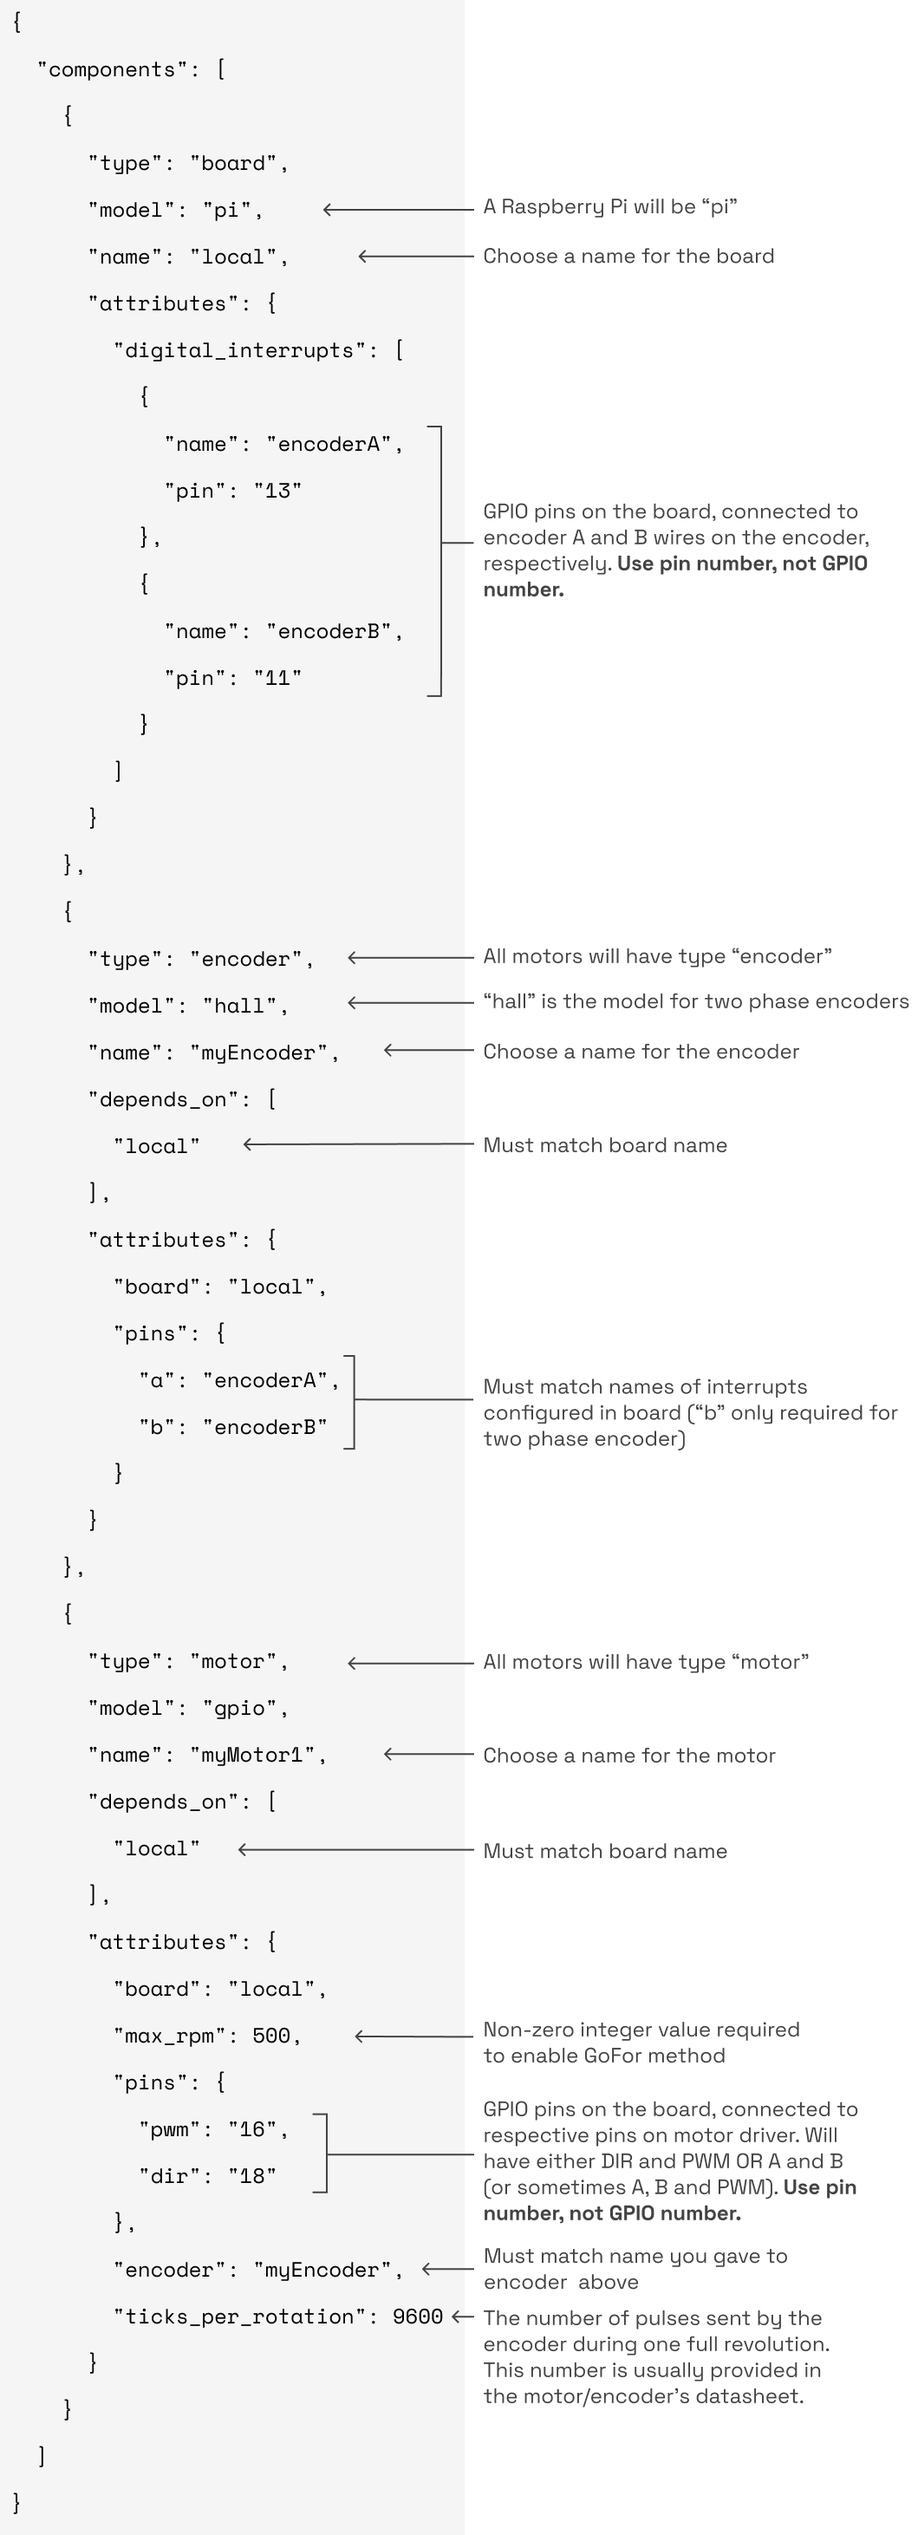
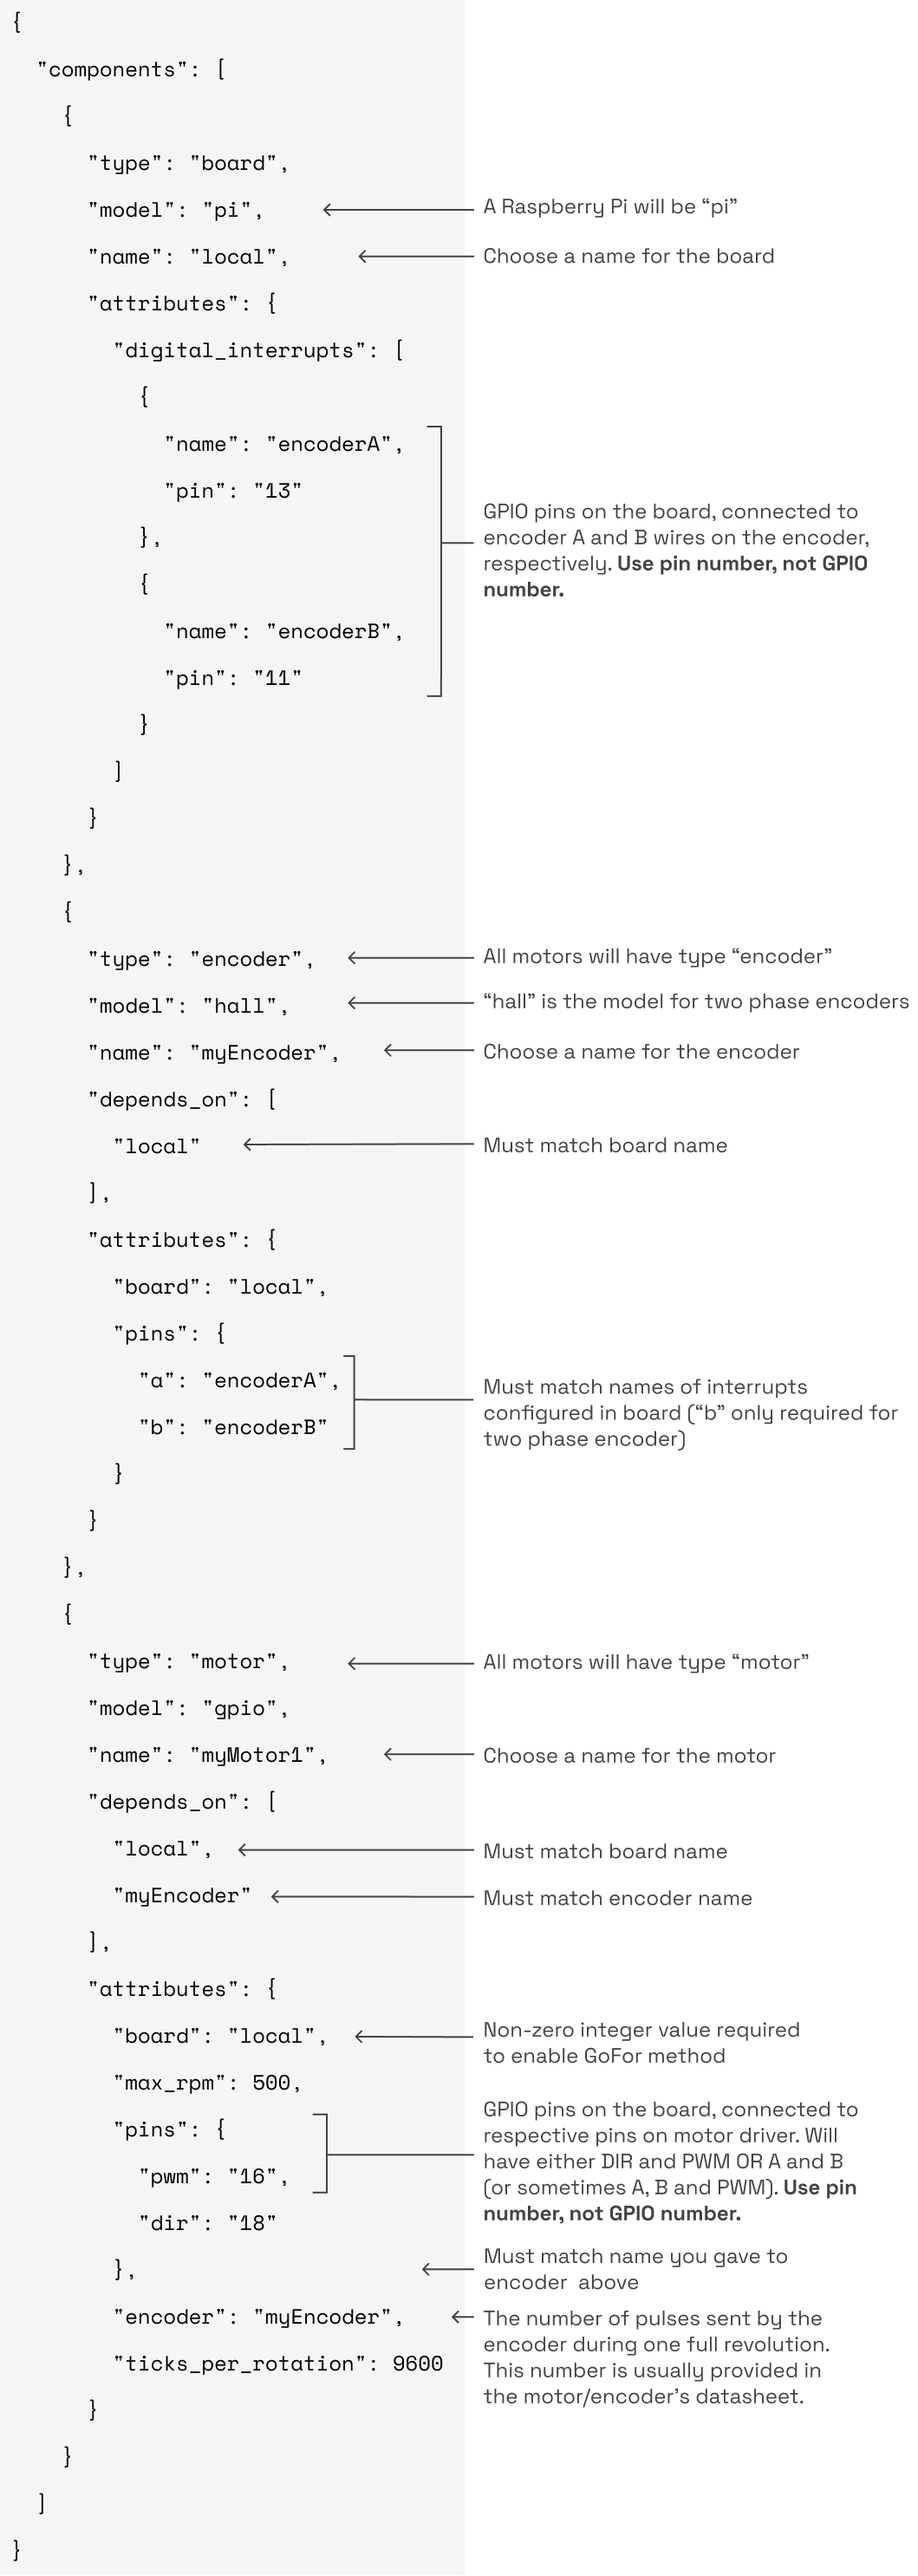
update encoded motor config and remove extra robot services doc (#156)
* remove extra robot services doc from components folder

* update encoded motor config examples

* add note about depends on

* remove redundant note

* Update content/en/docs/components/motor.md

diff --git a/content/en/docs/components/motor.md b/content/en/docs/components/motor.md
@@ -135,7 +135,7 @@ Here's an example of an encoded DC motor wired with [this motor driver](https://
 ### Viam Configuration
 
 Viam supports a brushed or brushless DC motor with a quadrature encoder within model “gpio.”
-Configuration of an encoder requires configuring the encoder [per this document](../encoder) in addition to the [standard “gpio” model attributes](motor#required-attributes---non-encoded-dc-motor).
+Configuration of an encoder requires configuring the encoder [per this document](../encoder) in addition to the [standard “gpio” model attributes](motor#required-attributes---non-encoded-dc-motor). Also note that the encoder name must be added in the motor's `depends_on` field.
 Here’s an example config file:  
 
 ![motor-encoded-dc-json](../img/motor-encoded-dc-json.png)  
